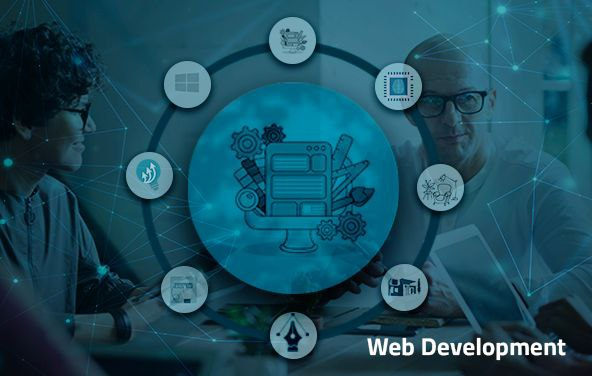
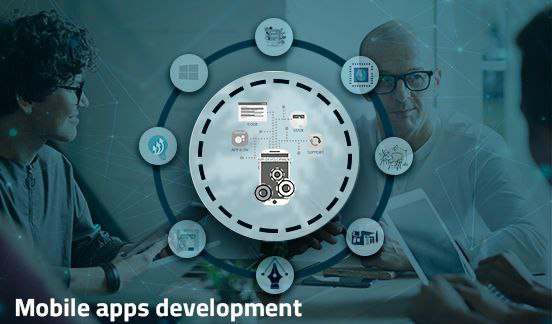
change photos

diff --git a/src/pages/CompanyServices/CompanyServices.jsx b/src/pages/CompanyServices/CompanyServices.jsx
@@ -6,21 +6,38 @@ import ServiceCard from "../../components/CompanyServices/ServiceCard/ServiceCar
 import { useInView } from "react-intersection-observer";
 import SEO from "../../components/SharedComponents/SEO/SEO";
 import { metaSEO } from "../../utils/constants";
-import img from "../../images/StudentServices/b.jpg"
+import img1 from "../../images/StudentServices/a.jpg"
+import img2 from "../../images/StudentServices/b.jpg"
+import img3 from "../../images/StudentServices/c.jpg"
+import img4 from "../../images/StudentServices/d.jpg"
 const CompanyServices = () => {
   const services =[
     {
       pk:1,
       service_name:"web development",
       service_description:"this is the best service",
-      service_picture_web: img ,
+      service_picture_web: img1 ,
     },
     {
       pk:1,
       service_name:"web development",
       service_description:"this is the best service",
-      service_picture_web: img ,
+      service_picture_web: img2 ,
     }
+    // ,
+    // {
+    //   pk:1,
+    //   service_name:"web development",
+    //   service_description:"this is the best service",
+    //   service_picture_web: img3 ,
+    // }
+    // ,
+    // {
+    //   pk:1,
+    //   service_name:"web development",
+    //   service_description:"this is the best service",
+    //   service_picture_web: img4 ,
+    // }
   ]
 
   
